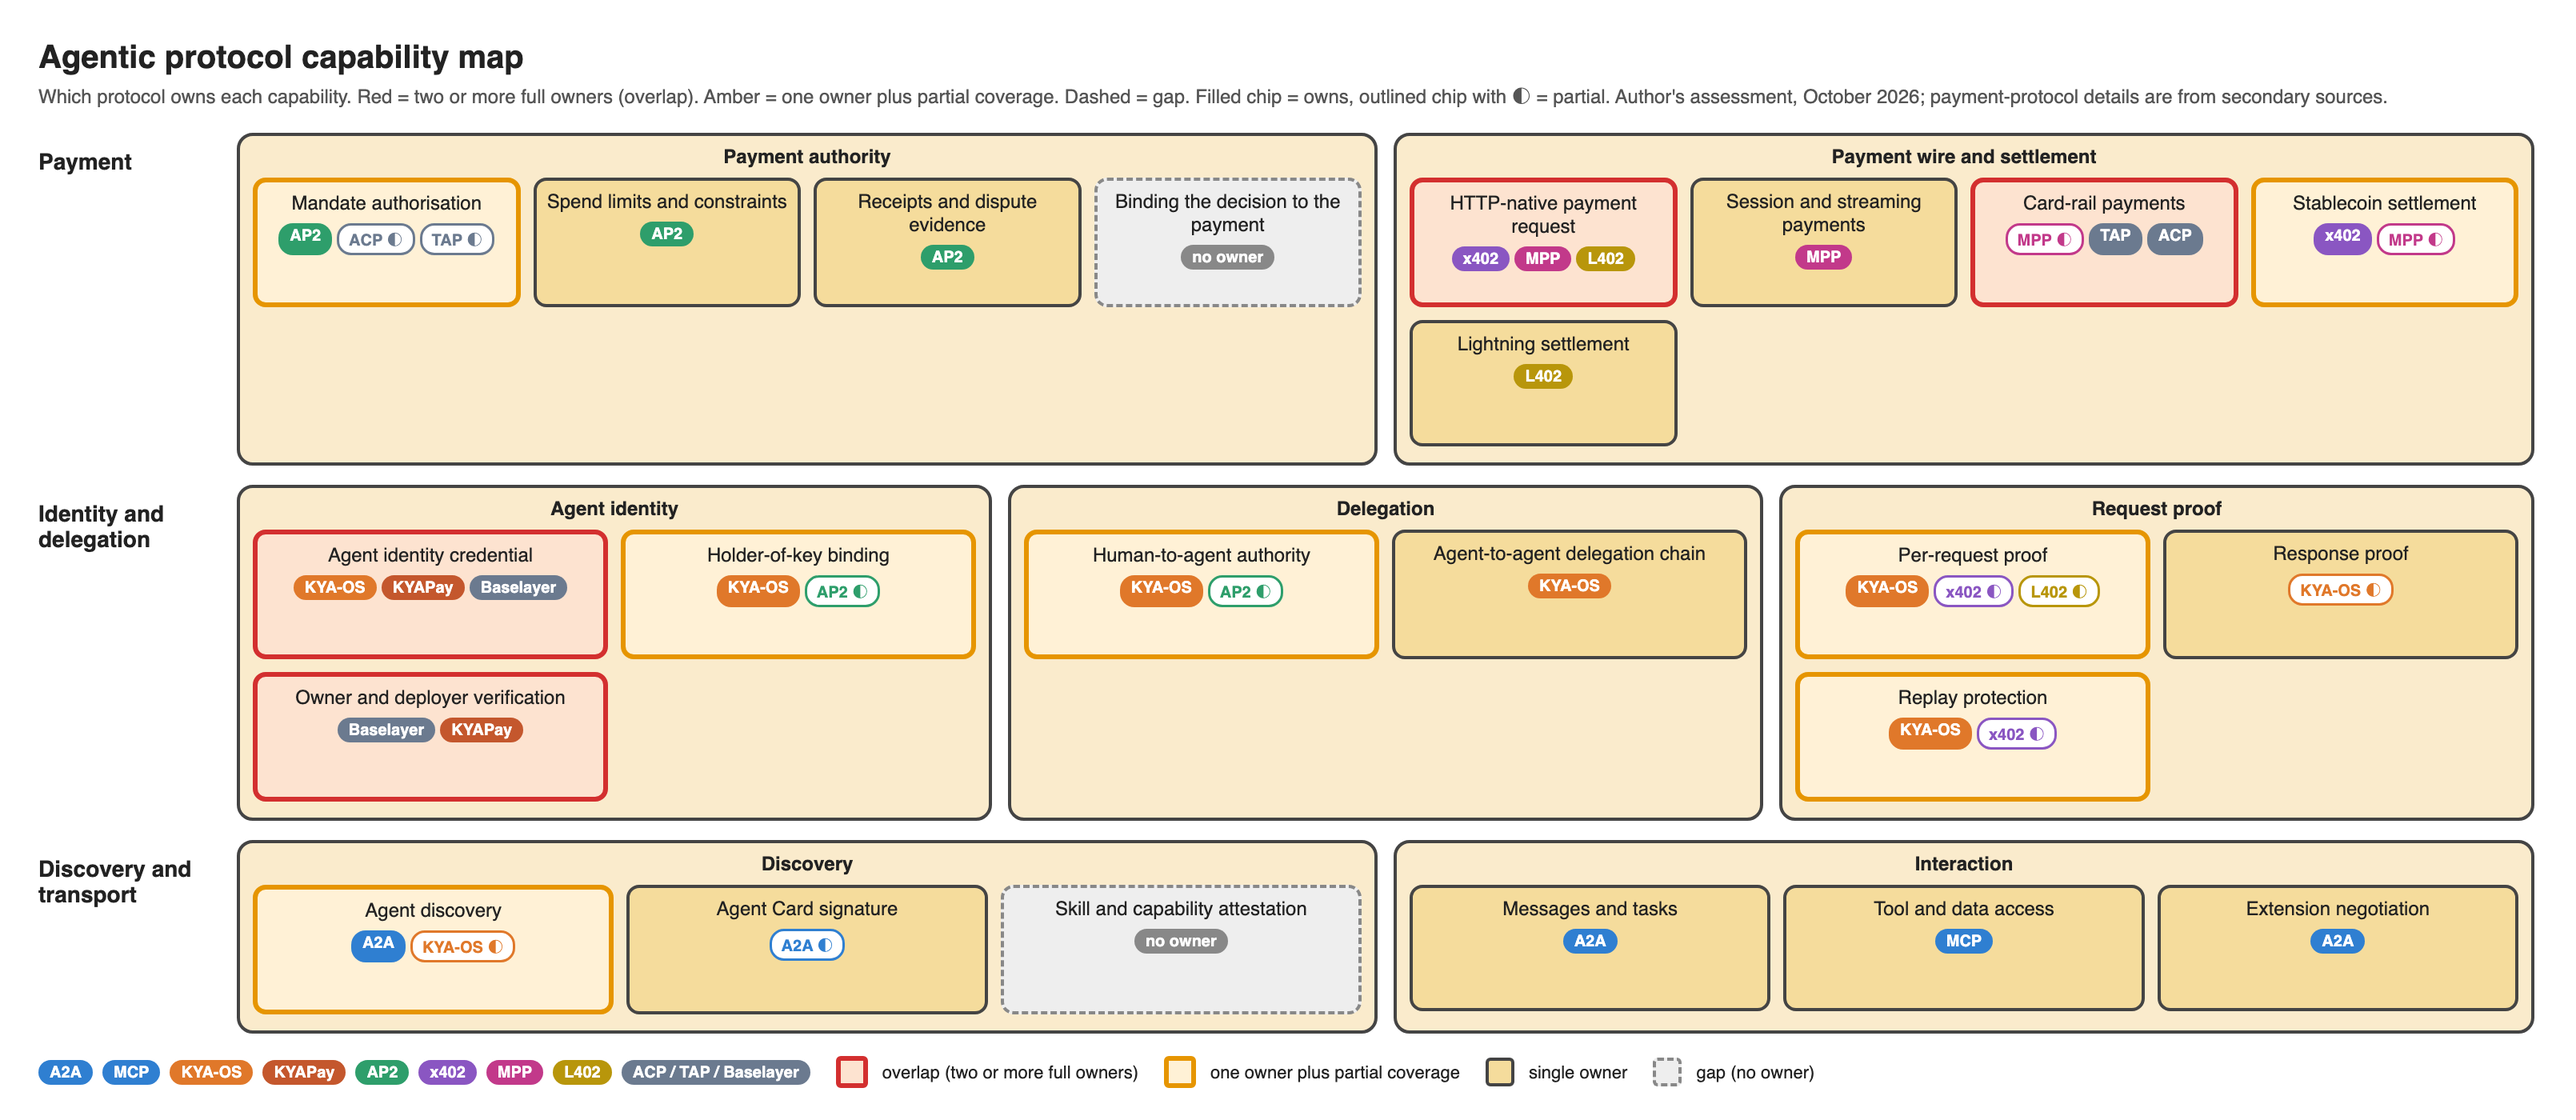
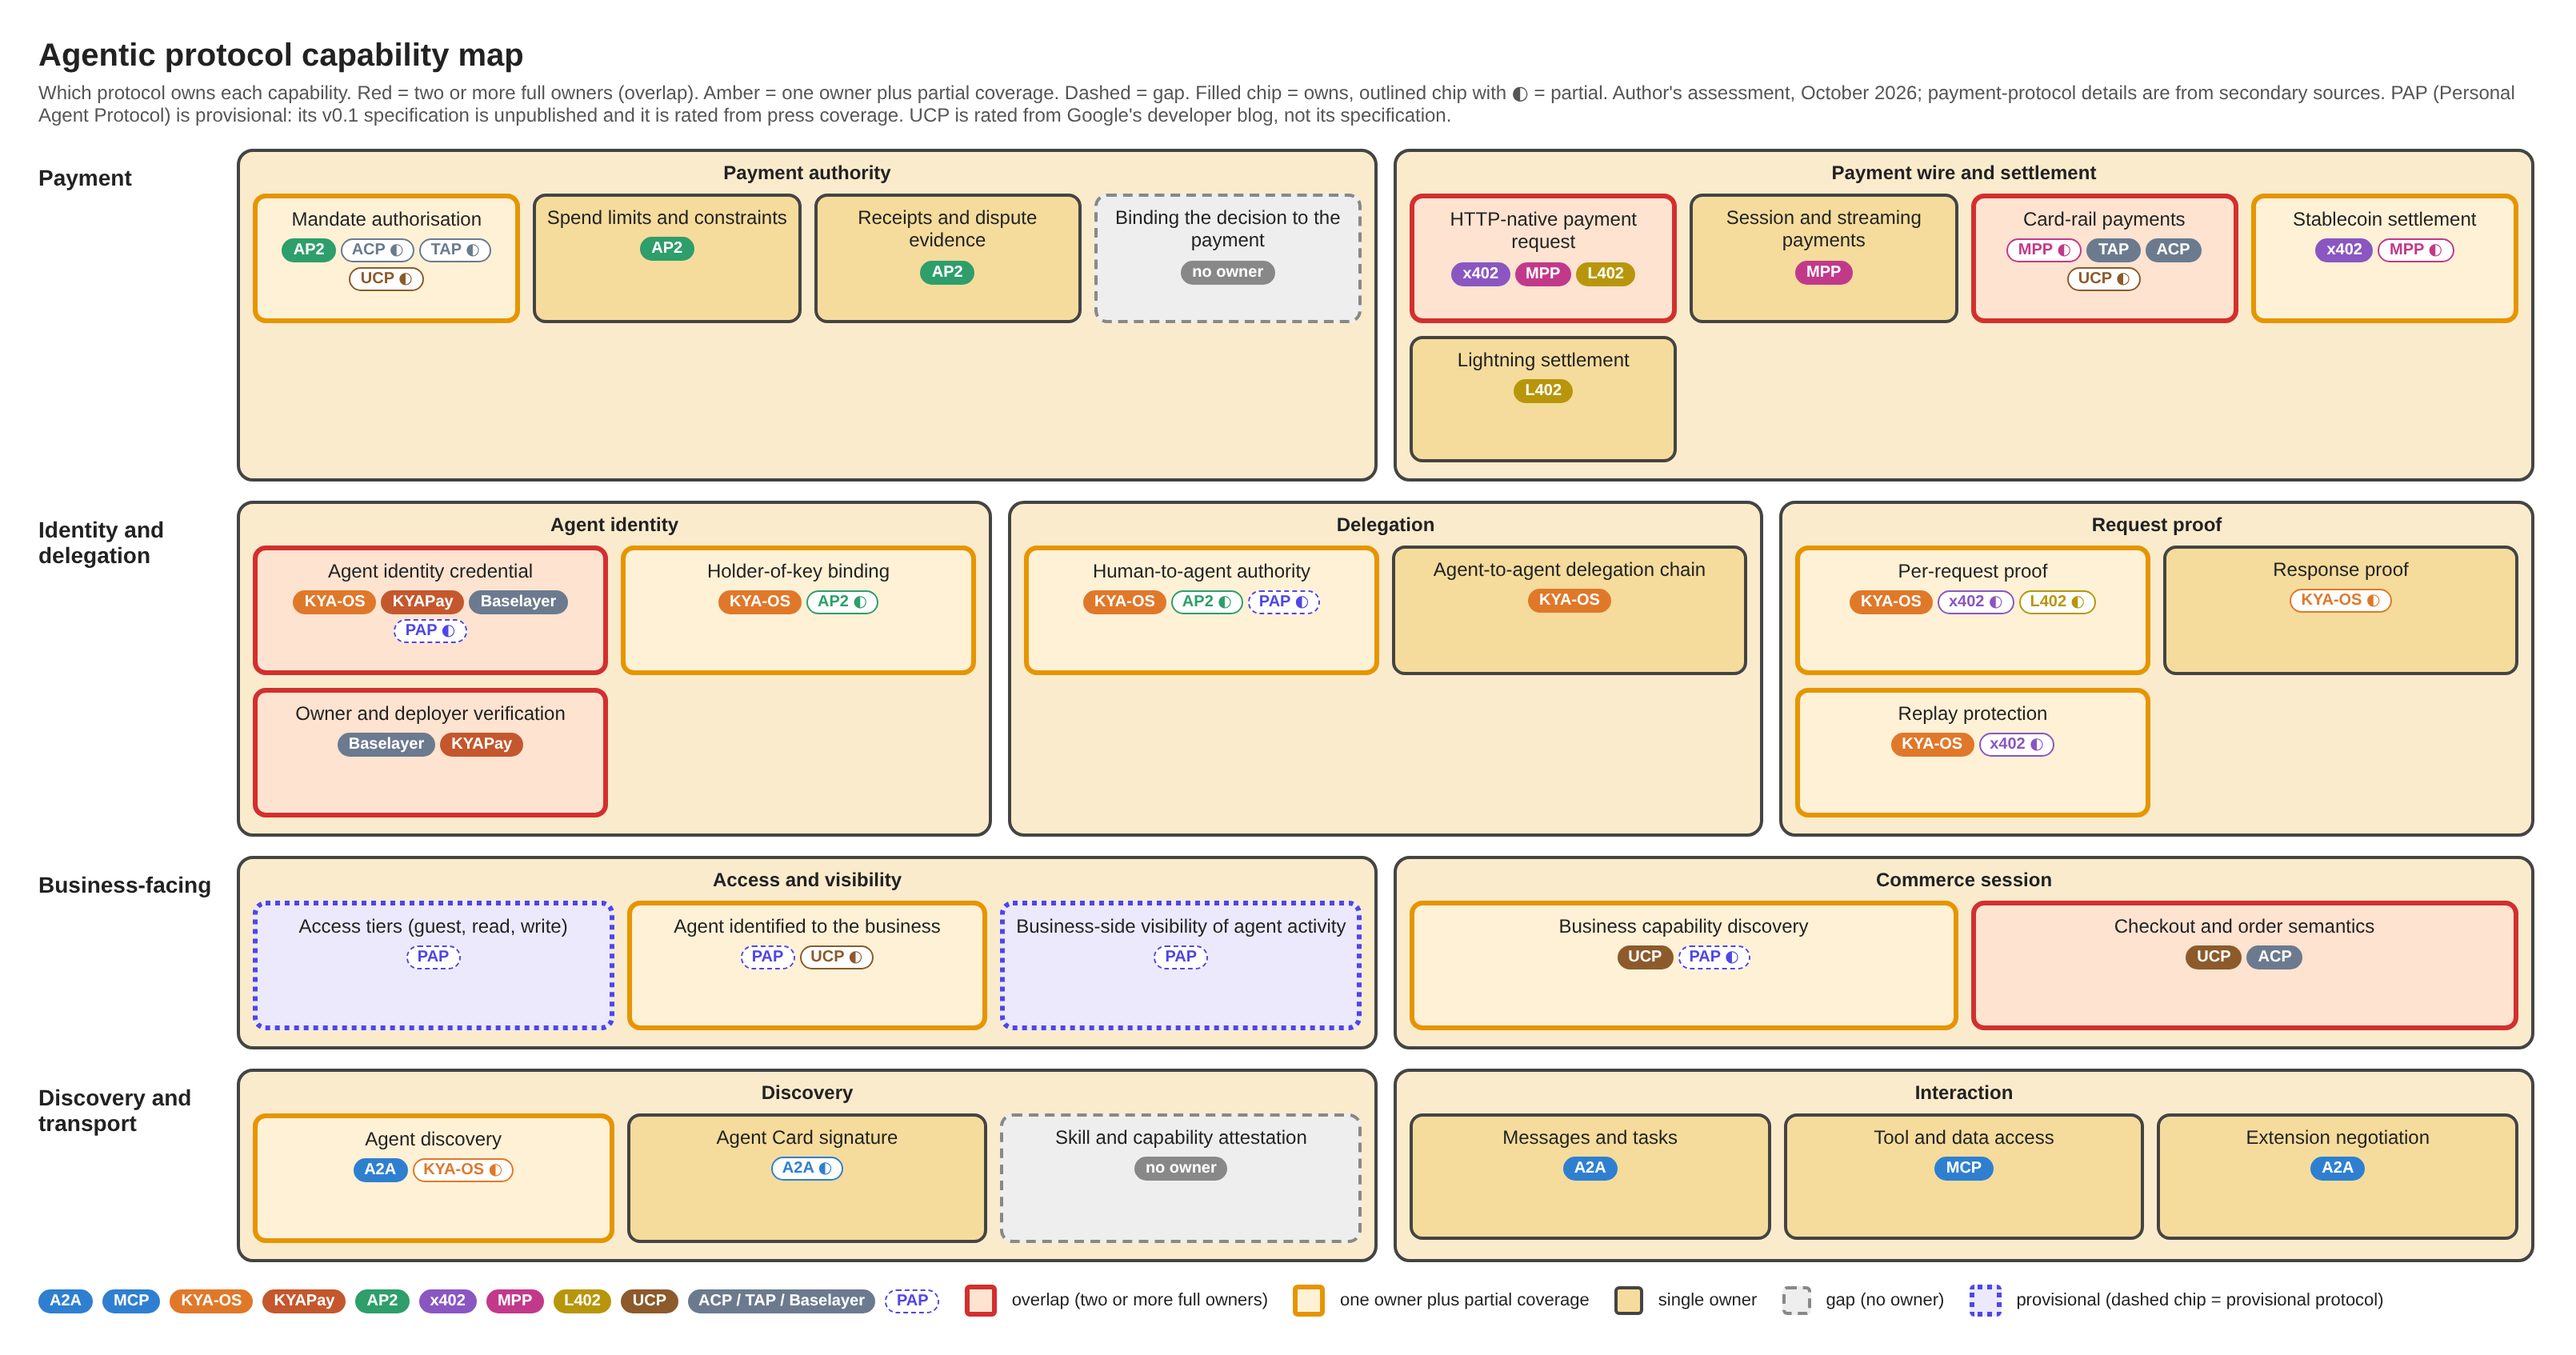
Add PAP (provisional) and UCP to the protocol capability map
- Add PAP (Personal Agent Protocol) as a provisional protocol: dashed chips,
  dotted boxes where it is the only owner, subtitle note that v0.1 is unpublished
- Add UCP (Universal Commerce Protocol), rated from Google's developer blog
- Add a Business-facing row: access tiers, agent identified to the business,
  business-side visibility, business capability discovery, checkout and order semantics
- Regenerate both PNGs, update counts in protocol-stack-2026-10.md and the README

Claude-Session: https://claude.ai/code/session_016E9augYxwxzA8Aq9b46wz9

diff --git a/docs/research/tools/capability-map/generate.py b/docs/research/tools/capability-map/generate.py
@@ -23,35 +23,48 @@ import sys
 import html
 # protocol -> colour
 COL={'A2A':'#2f7fd1','KYA-OS':'#e0782a','AP2':'#2e9e6b','x402':'#8a56c2','MPP':'#c2398a','L402':'#b8960b','cheqd':'#1b8a8a',
-     'ACP':'#6b7a8f','TAP':'#6b7a8f','KYAPay':'#c4572d','Baselayer':'#6b7a8f','MCP':'#2f7fd1'}
+     'ACP':'#6b7a8f','TAP':'#6b7a8f','KYAPay':'#c4572d','Baselayer':'#6b7a8f','MCP':'#2f7fd1',
+     'UCP':'#8c5a2b','PAP':'#4f46e5'}
+# Protocols whose ratings are provisional (specification unpublished or rated from secondary sources).
+# Their chips render dashed, and a box owned only by provisional protocols gets a dotted border.
+PROVISIONAL={'PAP'}
 # (name, [(proto, level)], note)  level: F full, P partial
 def cap(name, owners, gap=False): return dict(name=name, owners=owners, gap=gap)
 ROWS=[
  ("Payment", [
    ("Payment authority", [
-     cap("Mandate authorisation",[('AP2','F'),('ACP','P'),('TAP','P')]),
+     cap("Mandate authorisation",[('AP2','F'),('ACP','P'),('TAP','P'),('UCP','P')]),
      cap("Spend limits and constraints",[('AP2','F')]),
      cap("Receipts and dispute evidence",[('AP2','F')]),
      cap("Binding the decision to the payment",[],True)]),
    ("Payment wire and settlement", [
      cap("HTTP-native payment request",[('x402','F'),('MPP','F'),('L402','F')]),
      cap("Session and streaming payments",[('MPP','F')]),
-     cap("Card-rail payments",[('MPP','P'),('TAP','F'),('ACP','F')]),
+     cap("Card-rail payments",[('MPP','P'),('TAP','F'),('ACP','F'),('UCP','P')]),
      cap("Stablecoin settlement",[('x402','F'),('MPP','P')]),
      cap("Lightning settlement",[('L402','F')])]),
  ]),
  ("Identity and delegation", [
    ("Agent identity", [
-     cap("Agent identity credential",[('KYA-OS','F'),('KYAPay','F'),('Baselayer','F')]),
+     cap("Agent identity credential",[('KYA-OS','F'),('KYAPay','F'),('Baselayer','F'),('PAP','P')]),
      cap("Holder-of-key binding",[('KYA-OS','F'),('AP2','P')]),
      cap("Owner and deployer verification",[('Baselayer','F'),('KYAPay','F')])]),
    ("Delegation", [
-     cap("Human-to-agent authority",[('KYA-OS','F'),('AP2','P')]),
+     cap("Human-to-agent authority",[('KYA-OS','F'),('AP2','P'),('PAP','P')]),
      cap("Agent-to-agent delegation chain",[('KYA-OS','F')])]),
    ("Request proof", [
      cap("Per-request proof",[('KYA-OS','F'),('x402','P'),('L402','P')]),
      cap("Response proof",[('KYA-OS','P')]),
      cap("Replay protection",[('KYA-OS','F'),('x402','P')])]),
+ ]),
+ ("Business-facing", [
+   ("Access and visibility", [
+     cap("Access tiers (guest, read, write)",[('PAP','F')]),
+     cap("Agent identified to the business",[('PAP','F'),('UCP','P')]),
+     cap("Business-side visibility of agent activity",[('PAP','F')])]),
+   ("Commerce session", [
+     cap("Business capability discovery",[('UCP','F'),('PAP','P')]),
+     cap("Checkout and order semantics",[('UCP','F'),('ACP','F')])]),
  ]),
  ("Discovery and transport", [
    ("Discovery", [
@@ -107,16 +120,20 @@ def kind(c):
 stats={'gap':[], 'overlap':[], 'partial':[], 'single':[]}
 def box(c):
     k=kind(c); stats[k].append(c['name'])
-    chips=''.join(f'<span class="chip{" p" if l=="P" else ""}" style="--c:{COL[p]}">{html.escape(p)}{"" if l=="F" else " ◐"}</span>' for p,l in c['owners'])
+    def chip(p,l):
+        cls='chip'+(' p' if l=='P' else '')+(' prov' if p in PROVISIONAL else '')
+        return f'<span class="{cls}" style="--c:{COL[p]}">{html.escape(p)}{"" if l=="F" else " <span class=h>◐</span>"}</span>'
+    chips=''.join(chip(p,l) for p,l in c['owners'])
     if c['gap']: chips='<span class="chip none">no owner</span>'
-    return f'<div class="cap {k}"><div class="n">{html.escape(c["name"])}</div><div class="chips">{chips}</div></div>'
+    prov=' prov' if c['owners'] and all(p in PROVISIONAL for p,l in c['owners']) else ''
+    return f'<div class="cap {k}{prov}"><div class="n">{html.escape(c["name"])}</div><div class="chips">{chips}</div></div>'
 rows=''
 for rname, groups in ROWS:
     g=''.join(f'<div class="grp"><div class="gt">{html.escape(gn)}</div><div class="caps">{"".join(box(c) for c in cs)}</div></div>' for gn,cs in groups)
     rows+=f'<div class="row"><div class="rl">{html.escape(rname)}</div><div class="groups">{g}</div></div>'
-legend=''.join(f'<span class="chip" style="--c:{COL[p]}">{p}</span>' for p in ['A2A','MCP','KYA-OS','KYAPay','AP2','x402','MPP','L402','cheqd'] if p in COL)+'<span class="chip" style="--c:#6b7a8f">ACP / TAP / Baselayer</span>'
+legend=''.join(f'<span class="chip" style="--c:{COL[p]}">{p}</span>' for p in ['A2A','MCP','KYA-OS','KYAPay','AP2','x402','MPP','L402','UCP','cheqd'] if p in COL)+'<span class="chip" style="--c:#6b7a8f">ACP / TAP / Baselayer</span>'+'<span class="chip prov" style="--c:#4f46e5">PAP</span>'
 page=f'''<!doctype html><meta charset=utf-8><style>
-body{{margin:0;padding:24px;background:#fff;font-family:Helvetica,Arial,sans-serif;color:#222;width:1560px}}
+body{{margin:0;padding:24px;background:#fff;font-family:Helvetica,Arial,'DejaVu Sans',sans-serif;color:#222;width:1560px}}
 h1{{font-size:20px;margin:0 0 4px}} .sub{{font-size:12px;color:#555;margin-bottom:14px}}
 .row{{display:flex;gap:14px;margin-bottom:12px}}
 .rl{{width:110px;font-weight:700;font-size:14px;padding-top:10px}}
@@ -133,17 +150,21 @@ h1{{font-size:20px;margin:0 0 4px}} .sub{{font-size:12px;color:#555;margin-botto
 .chip{{background:var(--c);color:#fff;border-radius:9px;font-size:10px;font-weight:700;padding:2px 7px;display:inline-block}}
 .chip.p{{background:#fff;color:var(--c);border:1.5px solid var(--c);padding:1px 6px}}
 .chip.none{{background:#888}}
+.h{{font-family:'DejaVu Sans',Helvetica,Arial,sans-serif}}
+.chip.prov{{background:#fff;color:var(--c);border:1.5px dashed var(--c);padding:1px 6px}}
+.cap.prov{{border-style:dotted;border-color:#4f46e5;border-width:3px;background:#ebe9fb}}
 .leg{{margin-top:14px;font-size:11px;display:flex;gap:6px;flex-wrap:wrap;align-items:center}}
 .k{{display:inline-block;width:14px;height:14px;border-radius:3px;margin:0 3px 0 10px;vertical-align:middle}}
 </style>
 <h1>{html.escape(TITLE)}</h1>
-<div class="sub">Which protocol owns each capability. Red = two or more full owners (overlap). Amber = one owner plus partial coverage. Dashed = gap. Filled chip = owns, outlined chip with ◐ = partial. Author's assessment, October 2026; payment-protocol details are from secondary sources.</div>
+<div class="sub">Which protocol owns each capability. Red = two or more full owners (overlap). Amber = one owner plus partial coverage. Dashed = gap. Filled chip = owns, outlined chip with <span class=h>◐</span> = partial. Author's assessment, October 2026; payment-protocol details are from secondary sources. PAP (Personal Agent Protocol) is provisional: its v0.1 specification is unpublished and it is rated from press coverage. UCP is rated from Google's developer blog, not its specification.</div>
 {rows}
 <div class="leg">{legend}
 <span class="k" style="background:#fde3d0;border:3px solid #d32f2f"></span>overlap (two or more full owners)
 <span class="k" style="background:#fff1d6;border:3px solid #e69500"></span>one owner plus partial coverage
 <span class="k" style="background:#f5dc9c;border:2px solid #444"></span>single owner
-<span class="k" style="background:#eee;border:2px dashed #888"></span>gap (no owner)</div>'''
+<span class="k" style="background:#eee;border:2px dashed #888"></span>gap (no owner)
+<span class="k" style="background:#ebe9fb;border:3px dotted #4f46e5"></span>provisional (dashed chip = provisional protocol)</div>'''
 out=sys.argv[1] if len(sys.argv)>1 else 'capability-map.html'
 open(out,'w').write(page)
 print({k:len(v) for k,v in stats.items()})

diff --git a/docs/research/protocol-stack-2026-10.md b/docs/research/protocol-stack-2026-10.md
@@ -33,7 +33,7 @@ flowchart TB
 
 ### Capability map with overlaps and gaps
 
-Each box is one capability. Chips show which protocols cover it: filled means the protocol owns it, outlined with ◐ means partial. Red boxes have two or more full owners (real overlap). Amber boxes have one owner plus partial coverage. Dashed boxes have no owner.
+Each box is one capability. Chips show which protocols cover it: filled means the protocol owns it, outlined with ◐ means partial. Red boxes have two or more full owners (real overlap). Amber boxes have one owner plus partial coverage. Dashed boxes have no owner. Dashed chips and dotted purple boxes mark provisional entries (see below).
 
 ![Agentic protocol capability map showing overlaps and gaps](./images/protocol-capability-map.png)
 
@@ -41,12 +41,17 @@ The ratings are data in [`tools/capability-map/generate.py`](./tools/capability-
 
 A version without cheqd (no cheqd chips and no Trust anchor row) is at [`images/protocol-capability-map-neutral.png`](./images/protocol-capability-map-neutral.png). Generate it with the `--no-cheqd` toggle.
 
-Counts for the full map: 28 capabilities, of which 4 overlap, 9 have partial overlap, 2 are gaps and 13 have a single owner.
+Two protocols were added to the map in October 2026, with a new Business-facing row:
+
+- **PAP (Personal Agent Protocol, Sierra and Meta) is provisional.** Its v0.1 specification is due later in October and is unpublished. It is rated from press coverage only, so every PAP rating should be revisited when the specification lands. It is rated partial on agent identity credential and human-to-agent authority, and owns access tiers (guest, read, write) and business-side visibility of agent activity.
+- **UCP (Google Universal Commerce Protocol)** is rated from Google's developer blog post, not its specification. It owns business capability discovery (a manifest the business publishes) and checkout and order semantics, and is partial on mandate authorisation and card-rail payments because it defers payment security to AP2 and processing to payment handlers.
+
+Counts for the full map: 33 capabilities, of which 5 overlap, 11 have partial overlap, 2 are gaps and 15 have a single owner.
 
 | Kind | Capabilities |
 |---|---|
-| Overlap (two or more full owners) | HTTP-native payment request (x402, MPP, L402); card-rail payments (TAP, ACP, with MPP partial); agent identity credential (KYA-OS, KYAPay, Baselayer); owner and deployer verification (Baselayer, KYAPay) |
-| Partial overlap | Mandate authorisation; stablecoin settlement; holder-of-key binding; human-to-agent authority; per-request proof; replay protection; agent discovery; DID resolution; credential status and revocation |
+| Overlap (two or more full owners) | HTTP-native payment request (x402, MPP, L402); card-rail payments (TAP, ACP, with MPP and UCP partial); agent identity credential (KYA-OS, KYAPay, Baselayer, with PAP partial); owner and deployer verification (Baselayer, KYAPay); checkout and order semantics (UCP, ACP) |
+| Partial overlap | Mandate authorisation; stablecoin settlement; holder-of-key binding; human-to-agent authority; per-request proof; replay protection; agent discovery; DID resolution; credential status and revocation; agent identified to the business (PAP, UCP partial); business capability discovery (UCP, PAP partial) |
 | Gap | Binding the decision to the payment; skill and capability attestation |
 
 ### Capability matrix

diff --git a/docs/research/tools/capability-map/README.md b/docs/research/tools/capability-map/README.md
@@ -30,11 +30,15 @@ Any headless Chromium works. For example, with Chrome on macOS:
 
 ```bash
 "/Applications/Google Chrome.app/Contents/MacOS/Google Chrome" --headless \
-  --hide-scrollbars --force-device-scale-factor=2 --window-size=1610,830 \
+  --hide-scrollbars --force-device-scale-factor=2 --window-size=1610,980 \
   --screenshot=protocol-capability-map.png file://$PWD/capability-map.html
 ```
 
-The window size fits the current content. Use a height of 700 instead of 830 for the `--no-cheqd` version, and change it if you add rows.
+The window size fits the current content. Use a height of 850 instead of 980 for the `--no-cheqd` version, and change it if you add rows. The half-circle glyph is set in DejaVu Sans; if your machine lacks it, the glyph falls back to a system font and may look smaller.
+
+## Provisional protocols
+
+Protocols in the `PROVISIONAL` set at the top of `generate.py` (currently PAP) render with dashed chips, and a box owned only by provisional protocols gets a dotted purple border. Use it for protocols whose specification is unpublished or rated from secondary sources, and remove the protocol from the set once its specification has been checked.
 
 ## Limits
 
